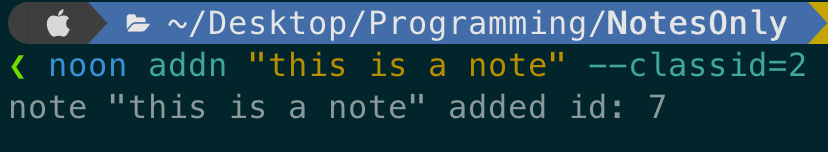
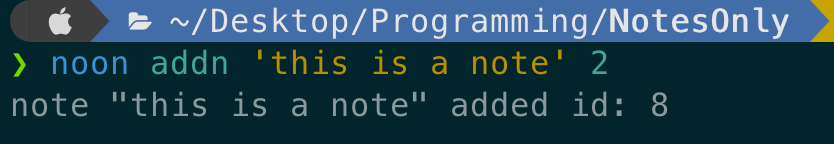
made --classid an argument, changed readme accordingly

diff --git a/app.py b/app.py
@@ -1,3 +1,4 @@
+from typing import Annotated
 import typer
 import csv
 import os
@@ -23,7 +24,7 @@ def get_all_data():
 
 # add note
 @app.command(help='add new note')
-def addn(note: str, classid: int=2):
+def addn(note: str, classid: Annotated[int, typer.Argument()]=2):
 
     # check if Class got any invalid values
     if 4 <= classid or classid <= 0:

diff --git a/README.md b/README.md
@@ -51,13 +51,13 @@ Add a new note.
 
 Ex.
 ```bash
-noon addn 'this is a new note' --classid=2
+noon addn 'this is a new note' 2
 ```
 this will add a new middle class note
 
-**addn** takes 1 parameter: note, 1 argument: --classid
+**addn** takes 2 argument: note, classid
 
-if note parameter contains white space it has to be covered
+if note argument contains white space it has to be covered
 with quote character.
 
 <img src="screenshots/addn.png" alt="Image Description" width="400"/>
